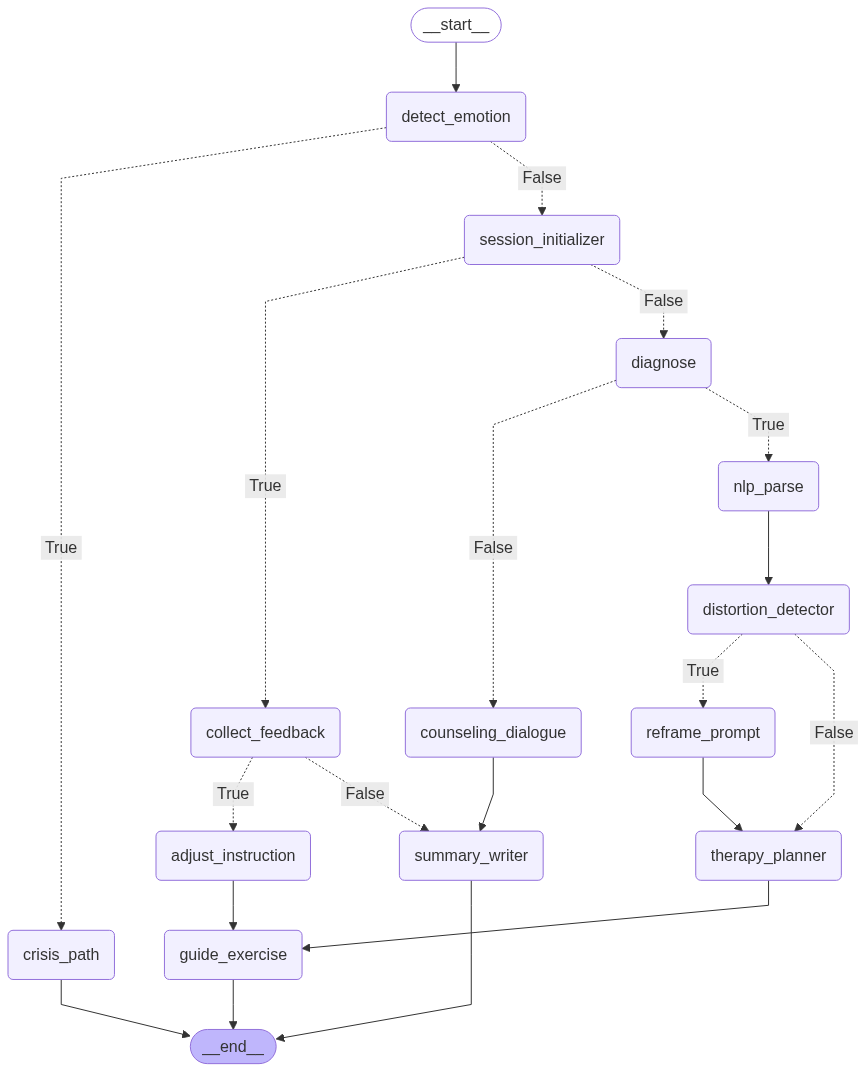
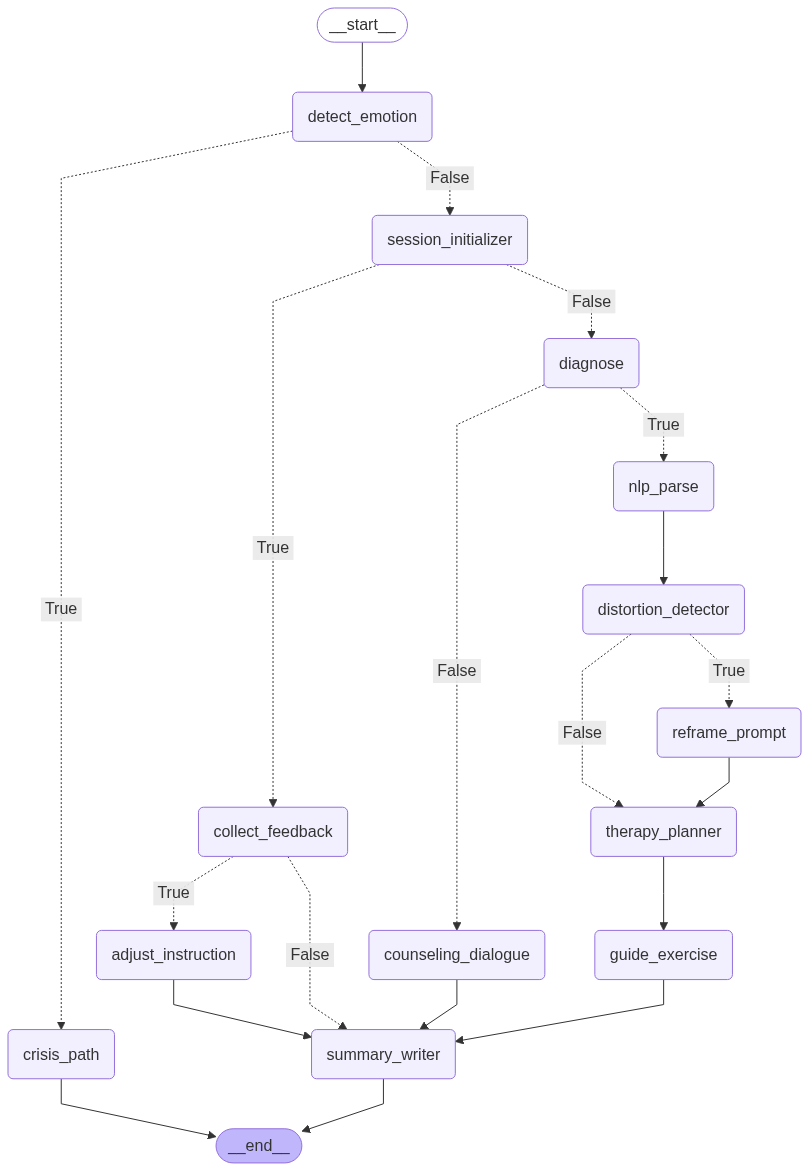
summary adjustment

diff --git a/graphs/mh_graph.py b/graphs/mh_graph.py
@@ -143,6 +143,12 @@ guide_exercise_prompt = ChatPromptTemplate.from_messages([
 ])
 guide_exercise_chain = guide_exercise_prompt | llm | StrOutputParser()
 
+adjust_instruction_prompt = ChatPromptTemplate.from_messages([
+    ("system", ADJUST_INSTRUCTION_SYSTEM_PROMPT),
+    ("user", "{u}"),
+])
+adjust_instruction_chain = adjust_instruction_prompt | llm | StrOutputParser()
+
 # Summary generation chain
 summary_prompt = ChatPromptTemplate.from_messages([
     ("system", "Summarise the key points and progress of the following conversation in 3 sentences."),
@@ -342,14 +348,8 @@ def collect_feedback_node(state: ChatState) -> ChatState:
 
 def adjust_instruction_node(state: ChatState) -> ChatState:
     pretty_logger.node_separator_top("adjust_instruction_node")
-    sentiment = state.get("feedback_sentiment", "neutral")
-    if sentiment == "negative":
-        reply = (
-            "Thanks for letting me know. Let's try an alternative approach—perhaps a sensory grounding exercise. "
-            "Focus on naming 5 things you can see, 4 you can touch, 3 you can hear, 2 you can smell, and 1 you can taste."
-        )
-    else:
-        reply = "Great job! We'll keep practicing this therapy since it seems helpful."
+
+    reply = adjust_instruction_chain.invoke({"u": state["last_user_msg"]})
     state.setdefault("chat_history", []).append(AIMessage(content=reply))
     pretty_logger.state_print("Chat history", state["chat_history"])
     state["awaiting_feedback"] = True
@@ -516,10 +516,9 @@ def build_graph() -> StateGraph[ChatState]:
         },
     )
 
-    sg.add_edge("adjust_instruction", "guide_exercise")
+    sg.add_edge("adjust_instruction", "summary_writer")
 
-    sg.add_edge("guide_exercise", END)        # stop after giving the exercise
-    sg.add_edge("adjust_instruction", END)
+    sg.add_edge("guide_exercise", "summary_writer")        # stop after giving the exercise
     sg.add_edge("summary_writer", END)
 
     graph = sg.compile()

diff --git a/graphs/prompts.py b/graphs/prompts.py
@@ -40,7 +40,12 @@ Detect if the user's message contains a cognitive distortion. "
 "If none, return 'none'.
 """
 
-GUIDE_EXERCISE_SYSTEM_PROMPT = """
+ADJUST_INSTRUCTION_SYSTEM_PROMPT = """
 You are a therapist. Your job is to provide a therapy exercise to the user who suffers from a mental health condition.
 The resource script related to the exercise is provided.
+"""
+
+GUIDE_EXERCISE_SYSTEM_PROMPT = """
+You are a therapist. Your job is to provide a therapy exercise to the user who suffers from a mental health condition.
+The resource script related to the exercise is provided. User did not like the initial exercise that was provided.
 """
